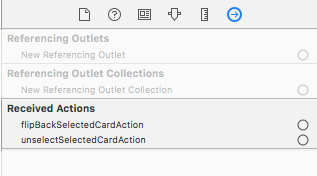
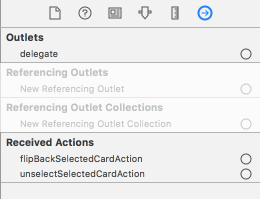
Add HFCardCollectionViewLayoutDelegate Update podspec to version 0.1.3

Changed region(s): [[0.0, 0.0, 1.0, 1.0]]

diff --git a/Source/HFCardCollectionViewLayout.swift b/Source/HFCardCollectionViewLayout.swift
@@ -70,14 +70,57 @@ extension UICollectionViewCell {
     
 }
 
-/*** Delegate ***/
+/*** Delegates ***/
 
 public protocol HFCardCollectionViewCellDelegate {
     
     /// This function is called to notify when the cell is selected.
     /// - Parameter collectionViewLayout: The current HFCardCollectionViewLayout.
     /// - Parameter hasCardSelected: true when the card is selected otherwise it is false.
-    func cardCollectionViewLayout(_ collectionViewLayout: HFCardCollectionViewLayout, hasCardSelected: Bool)
+    func cardCollectionViewLayout(_ collectionViewLayout: HFCardCollectionViewLayout, hasCardSelected isSelected: Bool)
+    
+}
+
+public protocol HFCardCollectionViewLayoutDelegate {
+    
+    /// Asks if the card at the specific index can be selected.
+    /// - Parameter collectionViewLayout: The current HFCardCollectionViewLayout.
+    /// - Parameter canSelectCardAtIndex: Index of the card.
+    func cardCollectionViewLayout(_ collectionViewLayout: HFCardCollectionViewLayout, canSelectCardAtIndex index: Int) -> Bool
+    
+    /// Asks if the card at the specific index can be unselected.
+    /// - Parameter collectionViewLayout: The current HFCardCollectionViewLayout.
+    /// - Parameter canUnselectCardAtIndex: Index of the card.
+    func cardCollectionViewLayout(_ collectionViewLayout: HFCardCollectionViewLayout, canUnselectCardAtIndex index: Int) -> Bool
+    
+    /// Feedback when the card at the given index was selected.
+    /// - Parameter collectionViewLayout: The current HFCardCollectionViewLayout.
+    /// - Parameter didSelectedCardAtIndex: Index of the card.
+    func cardCollectionViewLayout(_ collectionViewLayout: HFCardCollectionViewLayout, didSelectedCardAtIndex index: Int)
+    
+    /// Feedback when the card at the given index was unselected.
+    /// - Parameter collectionViewLayout: The current HFCardCollectionViewLayout.
+    /// - Parameter didUnselectedCardAtIndex: Index of the card.
+    func cardCollectionViewLayout(_ collectionViewLayout: HFCardCollectionViewLayout, didUnselectedCardAtIndex index: Int)
+    
+}
+
+// Default implementation for HFCardCollectionViewLayoutDelegate
+extension HFCardCollectionViewLayoutDelegate {
+    
+    func cardCollectionViewLayout(_ collectionViewLayout: HFCardCollectionViewLayout, canSelectCardAtIndex index: Int) -> Bool {
+        return true
+    }
+    
+    func cardCollectionViewLayout(_ collectionViewLayout: HFCardCollectionViewLayout, canUnselectCardAtIndex index: Int) -> Bool {
+        return true
+    }
+    
+    func cardCollectionViewLayout(_ collectionViewLayout: HFCardCollectionViewLayout, didSelectedCardAtIndex index: Int) {
+    }
+    
+    func cardCollectionViewLayout(_ collectionViewLayout: HFCardCollectionViewLayout, didUnselectedCardAtIndex index: Int) {
+    }
     
 }
 
@@ -250,6 +293,9 @@ public class HFCardCollectionViewLayout: UICollectionViewLayout, UIGestureRecogn
     /// ReadOnly.
     private(set) var selectedIndex: Int = -1
     
+    /// Delegate object of protocol HFCardCollectionViewLayoutDelegate
+    @IBOutlet public var delegate: AnyObject?
+    
     // MARK: Public Actions
     
     /// Action for the InterfaceBuilder to flip back the selected card.
@@ -269,21 +315,35 @@ public class HFCardCollectionViewLayout: UICollectionViewLayout, UIGestureRecogn
     /// - Parameter index: The index of the card.
     /// - Parameter completion: An optional completion block. Will be executed the animation is finished.
     public func selectCardAt(index: Int, completion: (() -> Void)? = nil) {
+        let collectionViewLayoutDelegate = self.delegate as? HFCardCollectionViewLayoutDelegate
+        
         if self.selectedIndex >= 0 && self.selectedIndex == index && self.selectedCardIsFlipped == true {
             // do nothing, because the card is flipped
         } else if self.selectedIndex >= 0 && index >= 0 {
+            if(self.collectionViewForceUnselect == false) {
+                if(collectionViewLayoutDelegate?.cardCollectionViewLayout(self, canUnselectCardAtIndex: index) == false) {
+                    return
+                }
+            }
+            self.collectionViewForceUnselect = false
             if(self.selectedCardIsFlipped == true) {
                 self.flipSelectedCardBack(completion: {
                     self.collectionView?.isScrollEnabled = true
                     self.deinitializeSelectedCard()
                     self.selectedIndex = -1
-                    self.collectionView?.performBatchUpdates({ self.collectionView?.reloadData() }, completion: { (finished) in completion?() })
+                    self.collectionView?.performBatchUpdates({ self.collectionView?.reloadData() }, completion: { (finished) in
+                        collectionViewLayoutDelegate?.cardCollectionViewLayout(self, didUnselectedCardAtIndex: index)
+                        completion?()
+                    })
                 })
             } else {
                 self.collectionView?.isScrollEnabled = true
                 self.deinitializeSelectedCard()
                 self.selectedIndex = -1
-                self.collectionView?.performBatchUpdates({ self.collectionView?.reloadData() }, completion: { (finished) in completion?() })
+                self.collectionView?.performBatchUpdates({ self.collectionView?.reloadData() }, completion: { (finished) in
+                    collectionViewLayoutDelegate?.cardCollectionViewLayout(self, didUnselectedCardAtIndex: index)
+                    completion?()
+                })
             }
         } else {
             if(index < 0) {
@@ -291,12 +351,19 @@ public class HFCardCollectionViewLayout: UICollectionViewLayout, UIGestureRecogn
             }
             self.selectedIndex = index
             if index >= 0 {
+                if(collectionViewLayoutDelegate!.cardCollectionViewLayout(self, canSelectCardAtIndex: index) == false) {
+                    self.selectedIndex = -1
+                    return
+                }
                 _ = self.initializeSelectedCard()
                 self.collectionView?.isScrollEnabled = false
             } else {
                 self.collectionView?.isScrollEnabled = true
             }
-            self.collectionView?.performBatchUpdates({ self.collectionView?.reloadData() }, completion: { (finished) in completion?() })
+            self.collectionView?.performBatchUpdates({ self.collectionView?.reloadData() }, completion: { (finished) in
+                collectionViewLayoutDelegate?.cardCollectionViewLayout(self, didSelectedCardAtIndex: index)
+                completion?()
+            })
         }
     }
     
@@ -308,9 +375,11 @@ public class HFCardCollectionViewLayout: UICollectionViewLayout, UIGestureRecogn
             completion?()
         } else if(self.selectedCardIsFlipped == true) {
             self.flipSelectedCardBack(completion: {
+                self.collectionViewForceUnselect = true
                 self.selectCardAt(index: self.selectedIndex, completion: completion)
             })
         } else {
+            self.collectionViewForceUnselect = true
             self.selectCardAt(index: self.selectedIndex, completion: completion)
         }
     }
@@ -384,6 +453,7 @@ public class HFCardCollectionViewLayout: UICollectionViewLayout, UIGestureRecogn
     private var collectionViewTapGestureRecognizer: UITapGestureRecognizer?
     private var collectionViewIgnoreBottomContentOffsetChanges: Bool = false
     private var collectionViewLastBottomContentOffset: CGFloat = 0
+    private var collectionViewForceUnselect: Bool = false
     
     private var cardCollectionBoundsSize: CGSize = .zero
     private var cardCollectionViewLayoutAttributes:[HFCardCollectionViewLayoutAttributes]!

diff --git a/HFCardCollectionViewLayoutExample/HFCardCollectionViewLayoutExample/ExampleViewController.swift b/HFCardCollectionViewLayoutExample/HFCardCollectionViewLayoutExample/ExampleViewController.swift
@@ -8,7 +8,7 @@
 
 import UIKit
 
-class ExampleViewController : UICollectionViewController {
+class ExampleViewController : UICollectionViewController, HFCardCollectionViewLayoutDelegate {
     
     var cardCollectionViewLayout: HFCardCollectionViewLayout?
     
@@ -69,6 +69,9 @@ class ExampleViewController : UICollectionViewController {
         let index = 0
         self.colorArray.insert(self.getRandomColor(), at: index)
         self.collectionView?.insertItems(at: [IndexPath(item: index, section: 0)])
+        if(self.colorArray.count == 1) {
+            self.cardCollectionViewLayout?.selectCardAt(index: 0)
+        }
         if(self.colorArray.count > 1) {
             self.cardCollectionViewLayout?.unselectCard()
         }
@@ -83,11 +86,22 @@ class ExampleViewController : UICollectionViewController {
             self.cardCollectionViewLayout?.unselectCard(completion: {
                 self.colorArray.remove(at: index)
                 self.collectionView?.deleteItems(at: [IndexPath(item: index, section: 0)])
+                
+                if(self.colorArray.count == 1) {
+                    self.cardCollectionViewLayout?.selectCardAt(index: 0)
+                }
             })
         }
     }
     
     // MARK: CollectionView
+    
+    func cardCollectionViewLayout(_ collectionViewLayout: HFCardCollectionViewLayout, canUnselectCardAtIndex index: Int) -> Bool {
+        if(self.colorArray.count == 1) {
+            return false
+        }
+        return true
+    }
     
     override func collectionView(_ collectionView: UICollectionView, numberOfItemsInSection section: Int) -> Int {
         return self.colorArray.count

diff --git a/HFCardCollectionViewLayoutExample/HFCardCollectionViewLayoutExample/ExampleCollectionViewCell.swift b/HFCardCollectionViewLayoutExample/HFCardCollectionViewLayoutExample/ExampleCollectionViewCell.swift
@@ -25,10 +25,10 @@ class ExampleCollectionViewCell: HFCardCollectionViewCell, HFCardCollectionViewC
         self.tableView?.scrollsToTop = false
     }
     
-    func cardCollectionViewLayout(_ collectionViewLayout: HFCardCollectionViewLayout, hasCardSelected: Bool) {
+    func cardCollectionViewLayout(_ collectionViewLayout: HFCardCollectionViewLayout, hasCardSelected isSelected: Bool) {
         self.cardCollectionViewLayout = collectionViewLayout
-        self.buttonFlip?.isHidden = !hasCardSelected
-        self.tableView?.scrollsToTop = hasCardSelected
+        self.buttonFlip?.isHidden = !isSelected
+        self.tableView?.scrollsToTop = isSelected
     }
     
     @IBAction func buttonFlipAction() {

diff --git a/README.md b/README.md
@@ -20,14 +20,47 @@ Just set *HFCardCollectionViewLayout* as the custom layout class.
 
 ![CollectionView_LayoutClass](https://raw.githubusercontent.com/hfrahmann/HFCardCollectionViewLayout/master/ReadmeAssets/CollectionView_LayoutClass.png)
 
-There is also a cell class called *HFCardCollectionViewCell* containing rounded corners and a shadow.
+There is also a cell class called **HFCardCollectionViewCell** containing rounded corners and a shadow.
 But this Cell has no dependency on the *HFCardCollectionViewLayout*.
 That means you can use your own *UICollectionViewCell*
 
-If you want to get notified when a card cell is selected implement the *HFCardCollectionViewCellDelegate* on your CollectionViewCell with the following method:
 
-```swift    
-func cardCollectionViewLayout(_ collectionViewLayout: HFCardCollectionViewLayout, hasCardSelected: Bool)
+## Delegates
+
+These are the methods of the **HFCardCollectionViewLayoutDelegate** to control the card selection.
+To use the methods you have to connect it to the *delegate* variable of *HFCardCollectionViewLayout*.
+
+```swift
+/// Asks if the card at the specific index can be selected.
+/// - Parameter collectionViewLayout: The current HFCardCollectionViewLayout.
+/// - Parameter canSelectCardAtIndex: Index of the card.
+func cardCollectionViewLayout(_ collectionViewLayout: HFCardCollectionViewLayout, canSelectCardAtIndex index: Int) -> Bool
+
+/// Asks if the card at the specific index can be unselected.
+/// - Parameter collectionViewLayout: The current HFCardCollectionViewLayout.
+/// - Parameter canUnselectCardAtIndex: Index of the card.
+func cardCollectionViewLayout(_ collectionViewLayout: HFCardCollectionViewLayout, canUnselectCardAtIndex index: Int) -> Bool
+
+/// Feedback when the card at the given index was selected.
+/// - Parameter collectionViewLayout: The current HFCardCollectionViewLayout.
+/// - Parameter didSelectedCardAtIndex: Index of the card.
+func cardCollectionViewLayout(_ collectionViewLayout: HFCardCollectionViewLayout, didSelectedCardAtIndex index: Int)
+
+/// Feedback when the card at the given index was unselected.
+/// - Parameter collectionViewLayout: The current HFCardCollectionViewLayout.
+/// - Parameter didUnselectedCardAtIndex: Index of the card.
+func cardCollectionViewLayout(_ collectionViewLayout: HFCardCollectionViewLayout, didUnselectedCardAtIndex index: Int)
+```
+
+
+
+If you want to get notified when a card cell is selected implement the **HFCardCollectionViewCellDelegate** on your CollectionViewCell with the following method:
+
+```swift
+/// This function is called to notify when the cell is selected.
+/// - Parameter collectionViewLayout: The current HFCardCollectionViewLayout.
+/// - Parameter hasCardSelected: true when the card is selected otherwise it is false.
+func cardCollectionViewLayout(_ collectionViewLayout: HFCardCollectionViewLayout, hasCardSelected isSelected: Bool)
 ```
 
 
@@ -94,6 +127,8 @@ These are the public variables and functions of *HFCardCollectionViewLayout*.
 /// ReadOnly.
 private(set) var selectedIndex: Int = -1
 
+/// Delegate object of protocol HFCardCollectionViewLayoutDelegate
+@IBOutlet public var delegate: AnyObject?
 
 /////////////// InterfaceBuilder Actions
 
